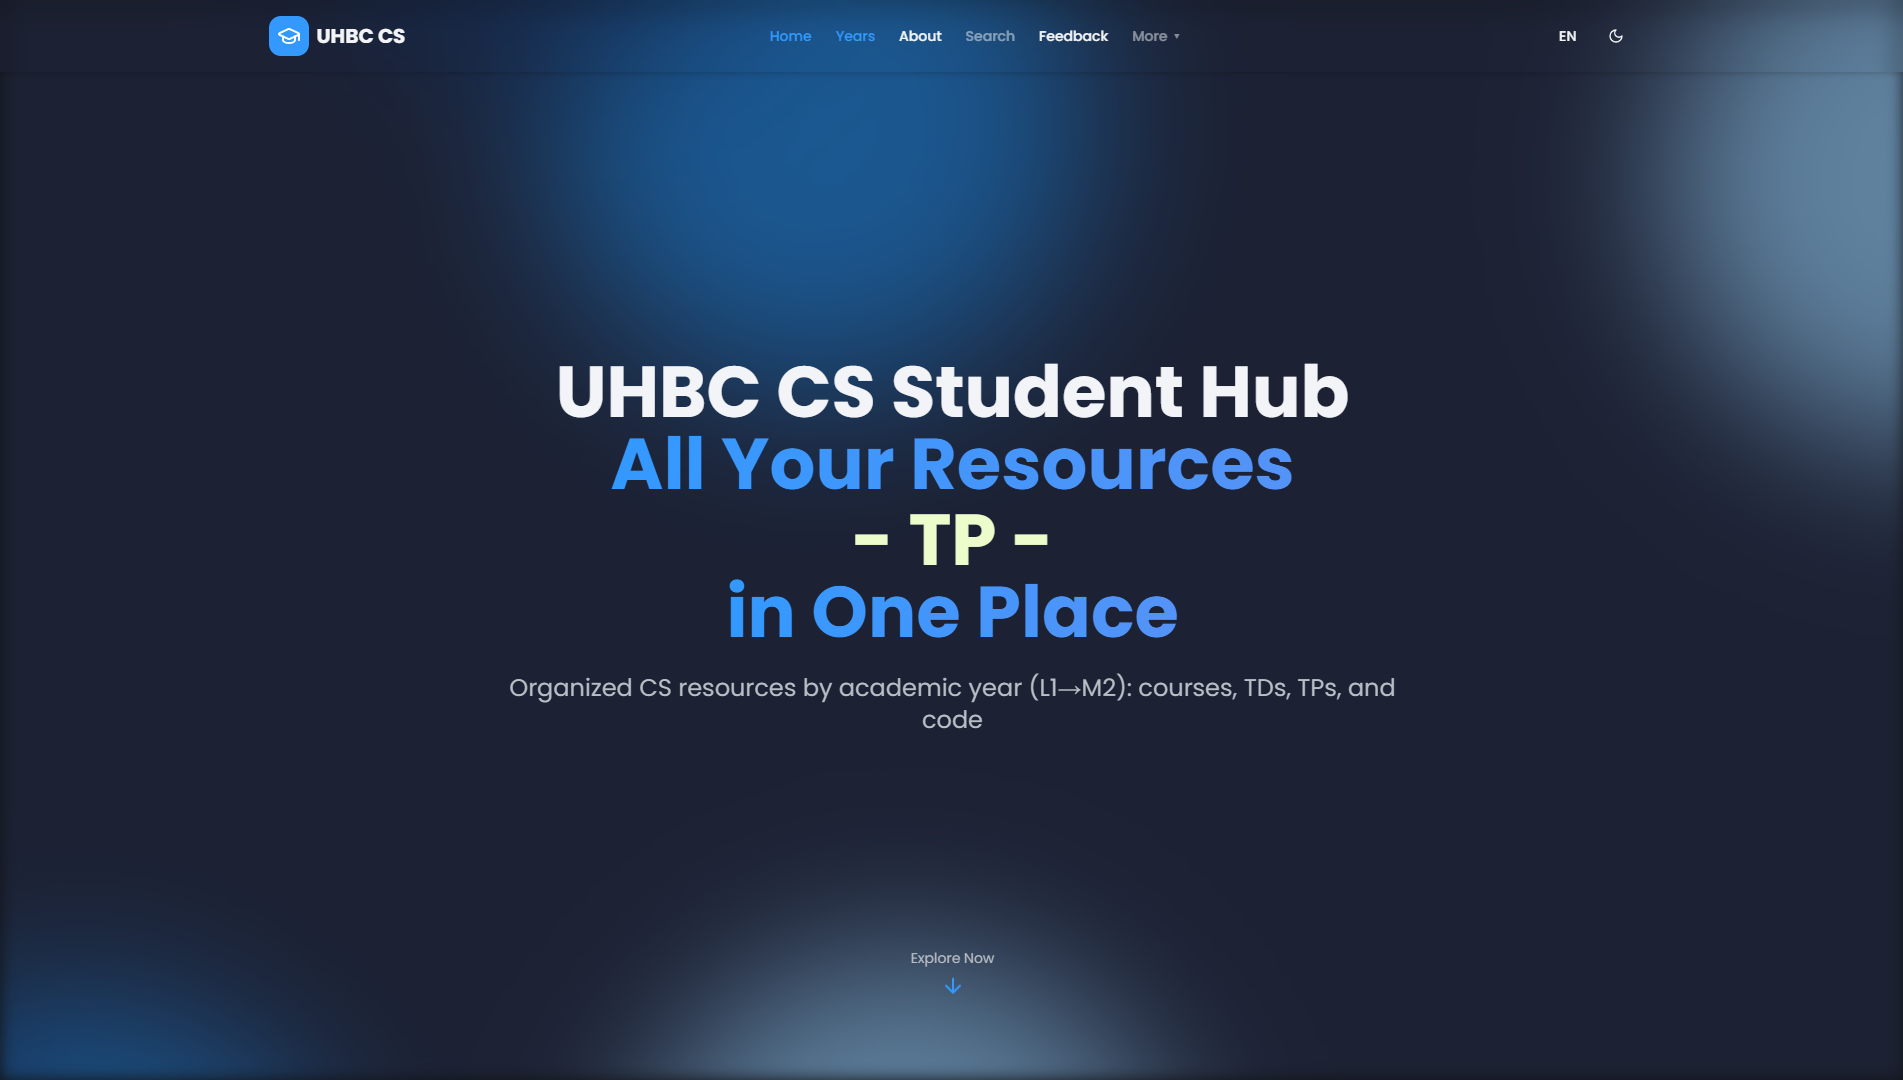
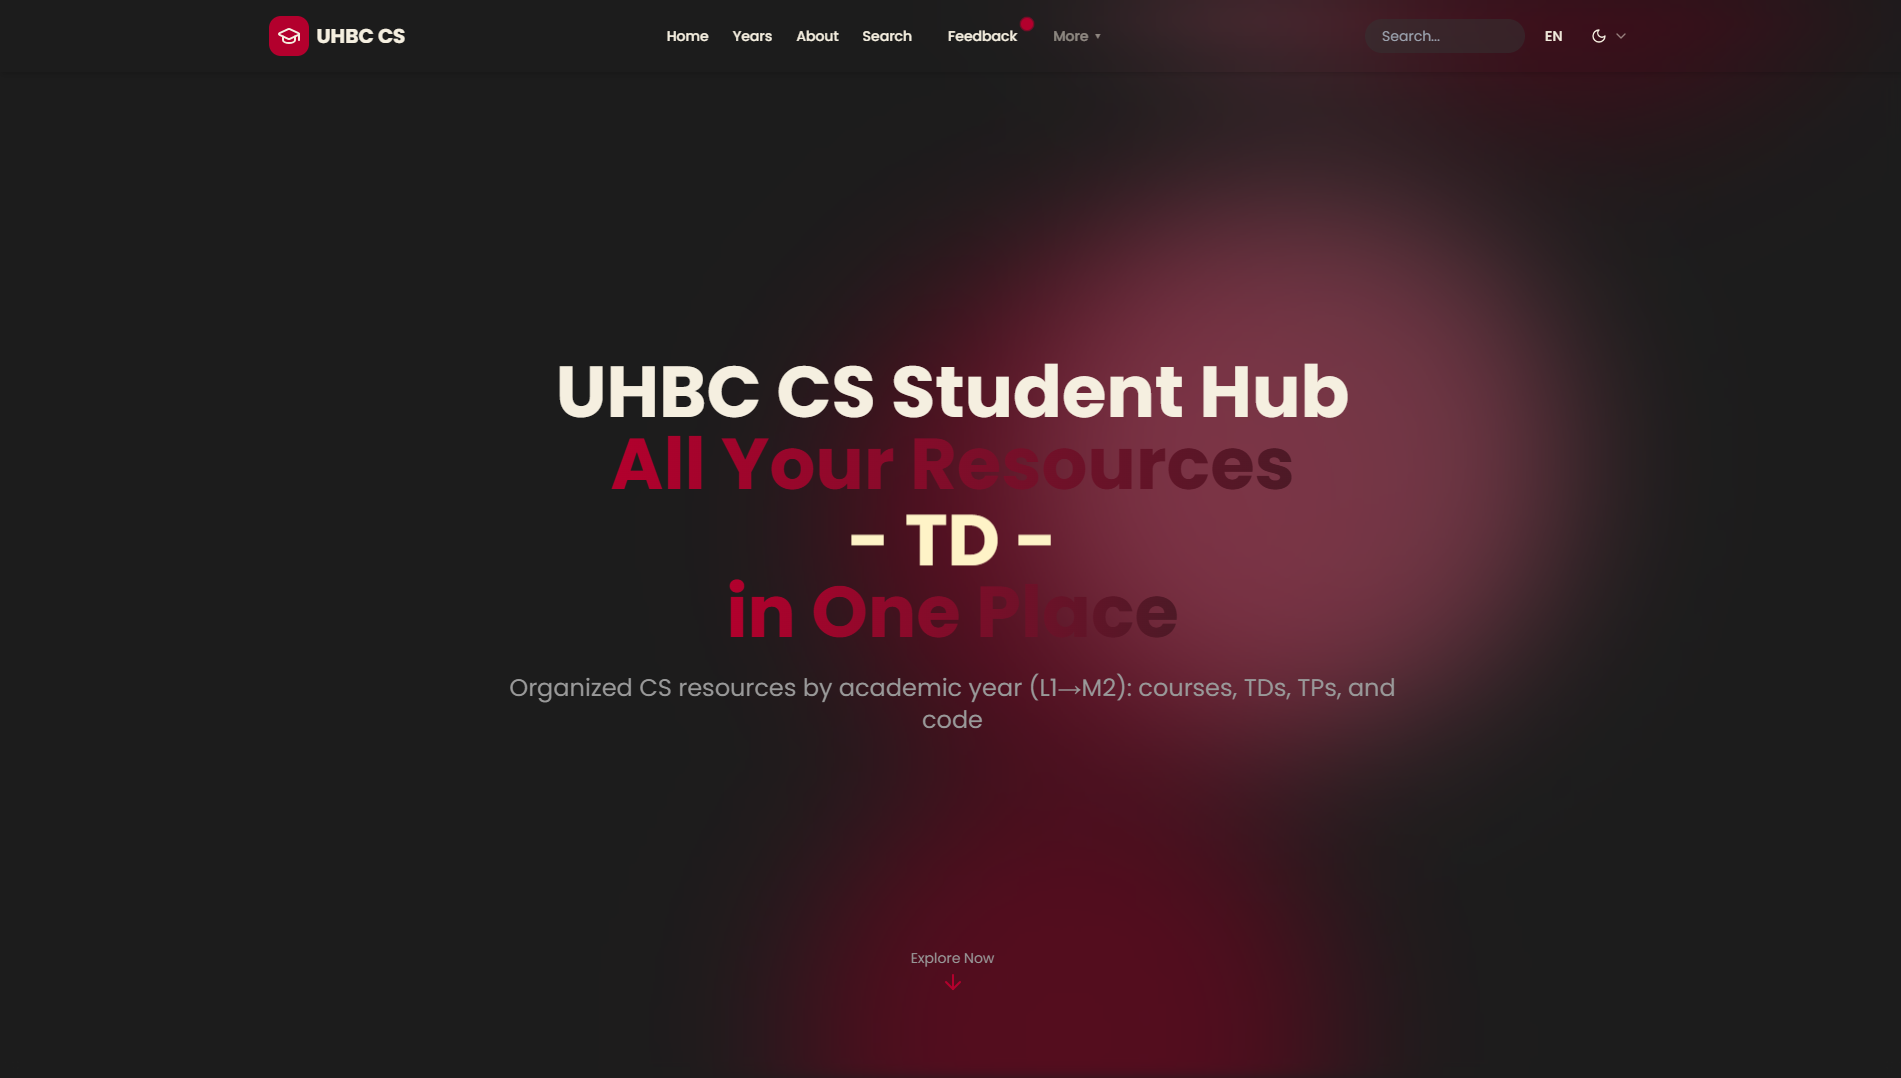
home preview

diff --git a/index.html b/index.html
@@ -20,7 +20,7 @@
   <meta property="og:title" content="UHBC CS - Student Resource Platform" />
   <meta property="og:description"
     content="Access all your UHBC Computer Science resources - Courses, TDs, TPs, and Code files in one place" />
-  <meta property="og:image" content="https://uhbccs.vercel.app/Home_preview.png" />
+  <meta property="og:image" content="C:\Users\rayan\OneDrive\Documents\GitHub\l2-cs-ressourses-hub\public\Home_preview.png" />
   <meta property="og:image:width" content="1200" />
   <meta property="og:image:height" content="630" />
   <meta property="og:image:type" content="image/png" />
@@ -31,7 +31,7 @@
   <meta property="twitter:title" content="UHBC CS - Student Resource Platform" />
   <meta property="twitter:description"
     content="Access all your UHBC Computer Science resources - Courses, TDs, TPs, and Code files in one place" />
-  <meta property="twitter:image" content="https://uhbccs.vercel.app/Home_preview.png" />
+  <meta property="twitter:image" content="C:\Users\rayan\OneDrive\Documents\GitHub\l2-cs-ressourses-hub\public\Home_preview.png" />
 
   <!-- Resource Hints - prefetch critical routes -->
   <link rel="dns-prefetch" href="https://www.googletagmanager.com" />
